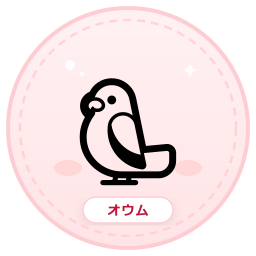
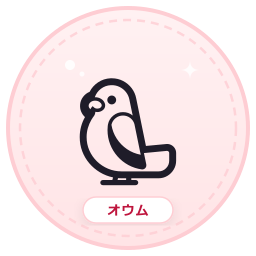
style: 全16タイプを黒シルエット（影絵）スタイルに統一・INTP/ISTPをカラー個別イラストから統一シルエット絵文字に巻き戻し

Changed region(s): [[0.3125, 0.2812, 0.6875, 0.75]]

diff --git a/scripts/generate-animal-icons.js b/scripts/generate-animal-icons.js
@@ -8,139 +8,34 @@ const sharp = require('sharp');
 // - 外交官 (INFP/INFJ/ENFP/ENFJ): ふんわりミントグリーン
 // - 番人 (ISTP/ISTJ/ESTP/ESTJ): やさしいベビーブルー
 // - 探検家 (ISFP/ISFJ/ESFP/ESFJ): あたたかみのあるクリームイエロー/シェルピンク
-
-// フクロウ (INTP): もっちりふっくら丸い体型、不自然な足の線なし、愛嬌満点のサンリオ・ちいかわ風
-function getOwlSvg() {
-  return `
-    <g transform="translate(128, 126)">
-      <!-- 耳の羽角 (丸っこくて愛嬌のある小さなぴょこん耳) -->
-      <path d="M-40 -40 C-50 -60 -25 -65 -18 -45 Z" fill="#6B5B95" />
-      <path d="M40 -40 C50 -60 25 -65 18 -45 Z" fill="#6B5B95" />
-      <path d="M-36 -42 C-43 -56 -26 -58 -22 -44 Z" fill="#C5B4E3" />
-      <path d="M36 -42 C43 -56 26 -58 22 -44 Z" fill="#C5B4E3" />
-
-      <!-- もっちりふっくら丸い体 (ラベンダーに調和する柔らかい紫グレー) -->
-      <ellipse cx="0" cy="5" rx="56" ry="50" fill="#7C6A9C" />
-
-      <!-- ちょこんと畳んだ丸い翼 (両サイド) -->
-      <ellipse cx="-48" cy="8" rx="14" ry="28" fill="#685688" transform="rotate(10 -48 8)" />
-      <ellipse cx="48" cy="8" rx="14" ry="28" fill="#685688" transform="rotate(-10 48 8)" />
-
-      <!-- ふんわりマシュマロお腹 -->
-      <ellipse cx="0" cy="16" rx="36" ry="34" fill="#F4EEFB" />
-
-      <!-- お腹のゆるかわ羽模様 -->
-      <path d="M-12 14 Q-7 19 -2 14" stroke="#B8A5D6" stroke-width="2.5" stroke-linecap="round" fill="none" />
-      <path d="M2 14 Q7 19 12 14" stroke="#B8A5D6" stroke-width="2.5" stroke-linecap="round" fill="none" />
-      <path d="M-5 25 Q0 30 5 25" stroke="#B8A5D6" stroke-width="2.5" stroke-linecap="round" fill="none" />
-
-      <!-- まんまるくりくりの大きな目 (サンリオ・ちいかわ風) -->
-      <ellipse cx="-20" cy="-6" rx="17" ry="17" fill="#FFFFFF" />
-      <ellipse cx="20" cy="-6" rx="17" ry="17" fill="#FFFFFF" />
-
-      <!-- 瞳 (ツヤツヤのうるうるアイ) -->
-      <ellipse cx="-19" cy="-6" rx="12" ry="12" fill="#2E243D" />
-      <ellipse cx="19" cy="-6" rx="12" ry="12" fill="#2E243D" />
-
-      <!-- 大きなうるうるハイライト -->
-      <circle cx="-23" cy="-10" r="4.5" fill="#FFFFFF" />
-      <circle cx="15" cy="-10" r="4.5" fill="#FFFFFF" />
-      <circle cx="-15" cy="-3" r="2.2" fill="#FFFFFF" />
-      <circle cx="23" cy="-3" r="2.2" fill="#FFFFFF" />
-
-      <!-- ぷっくり丸い小さなオレンジくちばし -->
-      <path d="M-5 0 Q0 8 5 0 Q0 -3 -5 0 Z" fill="#FFA94D" />
-
-      <!-- ほんのりピンクのぽわぽわほっぺチーク -->
-      <ellipse cx="-33" cy="8" rx="9" ry="5.5" fill="#FF85A1" opacity="0.45" />
-      <ellipse cx="33" cy="8" rx="9" ry="5.5" fill="#FF85A1" opacity="0.45" />
-
-      <!-- 体にすっぽり収まるちんまりした丸い足先（不自然な足の線は完全に排除） -->
-      <ellipse cx="-14" cy="52" rx="7" ry="4" fill="#FFA94D" />
-      <ellipse cx="14" cy="52" rx="7" ry="4" fill="#FFA94D" />
-    </g>
-  `;
-}
-
-// タカ (ISTP): 足の線を完全排除、シンプル＆クリーンで丸っこくふっくらしたゆるかわタカ
-function getHawkSvg() {
-  return `
-    <g transform="translate(128, 126)">
-      <!-- 頭のぴょこんとした可愛い冠羽 (サンリオ・ちいかわ風) -->
-      <path d="M-8 -46 Q-2 -62 10 -58 Q3 -48 -2 -42 Z" fill="#4B6584" />
-      <path d="M-2 -44 Q8 -54 18 -48 Q10 -40 4 -38 Z" fill="#5E7898" />
-
-      <!-- コロンと丸くふっくらした体 (ベビーブルーに映えるスモーキーブルーグレー) -->
-      <ellipse cx="0" cy="5" rx="54" ry="48" fill="#4B6584" />
-
-      <!-- ふっくらした丸い翼 (両脇) -->
-      <ellipse cx="-46" cy="10" rx="13" ry="26" fill="#3D536E" transform="rotate(12 -46 10)" />
-      <ellipse cx="46" cy="10" rx="13" ry="26" fill="#3D536E" transform="rotate(-12 46 10)" />
-
-      <!-- マシュマロみたいなお腹エプロン (クリームホワイト) -->
-      <ellipse cx="0" cy="15" rx="34" ry="32" fill="#F0F4F8" />
-
-      <!-- 胸のちんまりした羽根マーク -->
-      <path d="M-10 10 L0 18 L10 10" stroke="#8CA0B8" stroke-width="2.5" stroke-linecap="round" stroke-linejoin="round" fill="none" />
-      <path d="M-8 22 L0 28 L8 22" stroke="#8CA0B8" stroke-width="2.5" stroke-linecap="round" stroke-linejoin="round" fill="none" />
-
-      <!-- まんまるくりくりの大きなタカの目 (きりっとしつつも愛嬌たっぷりのちいかわ風) -->
-      <ellipse cx="-18" cy="-6" rx="15" ry="15" fill="#FFFFFF" />
-      <ellipse cx="18" cy="-6" rx="15" ry="15" fill="#FFFFFF" />
-
-      <!-- 瞳 (ゴールドアンバーのキラキラアイ) -->
-      <ellipse cx="-17" cy="-6" rx="10.5" ry="10.5" fill="#D97706" />
-      <ellipse cx="17" cy="-6" rx="10.5" ry="10.5" fill="#D97706" />
-
-      <!-- 瞳孔 (黒目) -->
-      <ellipse cx="-17" cy="-6" rx="7" ry="7" fill="#1E293B" />
-      <ellipse cx="17" cy="-6" rx="7" ry="7" fill="#1E293B" />
-
-      <!-- うるうるハイライト -->
-      <circle cx="-20" cy="-9" r="3.8" fill="#FFFFFF" />
-      <circle cx="14" cy="-9" r="3.8" fill="#FFFFFF" />
-      <circle cx="-14" cy="-4" r="1.8" fill="#FFFFFF" />
-      <circle cx="20" cy="-4" r="1.8" fill="#FFFFFF" />
-
-      <!-- ちょこんと小さくカーブした可愛い黄色いくちばし -->
-      <path d="M-6 -2 Q0 -5 6 -2 Q8 8 0 10 Q-8 8 -6 -2 Z" fill="#F59E0B" />
-      <path d="M-1 3 Q0 10 2 3 Z" fill="#D97706" />
-
-      <!-- ぽわっとした愛されほっぺチーク -->
-      <ellipse cx="-32" cy="7" rx="8" ry="5" fill="#FF85A1" opacity="0.45" />
-      <ellipse cx="32" cy="7" rx="8" ry="5" fill="#FF85A1" opacity="0.45" />
-
-      <!-- 足の細い線は完全に排除！丸っこい体にすっぽり収まる可愛い爪先の丸みのみ -->
-      <ellipse cx="-13" cy="50" rx="6.5" ry="3.5" fill="#F59E0B" />
-      <ellipse cx="13" cy="50" rx="6.5" ry="3.5" fill="#F59E0B" />
-    </g>
-  `;
-}
+//
+// 動物アイコン: 全16タイプを黒シルエット（影絵）スタイルに統一
+// パステル背景 + ステッチ丸枠 + シルエットフィルター適用の絵文字 + 下部ラベルバッジ
 
 const animals = [
   // 分析家 (淡いラベンダーパープル)
-  { type: 'INTP', label: 'フクロウ', customSvg: getOwlSvg(), bg1: '#F5EEFF', bg2: '#E5D4F8', border: '#D3BAF0', badgeBg: '#FFFFFF', badgeText: '#7C5295' },
-  { type: 'INTJ', label: 'ワシ', emoji: '🦅', bg1: '#F3ECFE', bg2: '#E2D0FA', border: '#D0B6F0', badgeBg: '#FFFFFF', badgeText: '#764B93' },
-  { type: 'ENTP', label: 'キツネ', emoji: '🦊', bg1: '#F7EFFE', bg2: '#E8D7FB', border: '#D7BEF4', badgeBg: '#FFFFFF', badgeText: '#7F569B' },
+  { type: 'INTP', label: 'フクロウ', emoji: '🦉', bg1: '#F5EEFF', bg2: '#E5D4F8', border: '#D3BAF0', badgeBg: '#FFFFFF', badgeText: '#7C5295' },
+  { type: 'INTJ', label: 'ワシ',     emoji: '🦅', bg1: '#F3ECFE', bg2: '#E2D0FA', border: '#D0B6F0', badgeBg: '#FFFFFF', badgeText: '#764B93' },
+  { type: 'ENTP', label: 'キツネ',   emoji: '🦊', bg1: '#F7EFFE', bg2: '#E8D7FB', border: '#D7BEF4', badgeBg: '#FFFFFF', badgeText: '#7F569B' },
   { type: 'ENTJ', label: 'ライオン', emoji: '🦁', bg1: '#F1E8FD', bg2: '#DDC9F7', border: '#CDB0ED', badgeBg: '#FFFFFF', badgeText: '#6F438D' },
 
   // 外交官 (ふんわりミントグリーン)
-  { type: 'INFP', label: 'ウサギ', emoji: '🐰', bg1: '#F0FDF4', bg2: '#DCFCE7', border: '#BBF7D0', badgeBg: '#FFFFFF', badgeText: '#15803D' },
-  { type: 'INFJ', label: 'シカ', emoji: '🦌', bg1: '#F2FDF8', bg2: '#D5FBE9', border: '#A7F3D0', badgeBg: '#FFFFFF', badgeText: '#047857' },
-  { type: 'ENFP', label: 'イルカ', emoji: '🐬', bg1: '#F0FDFA', bg2: '#CCFBF1', border: '#99F6E4', badgeBg: '#FFFFFF', badgeText: '#0F766E' },
+  { type: 'INFP', label: 'ウサギ',   emoji: '🐰', bg1: '#F0FDF4', bg2: '#DCFCE7', border: '#BBF7D0', badgeBg: '#FFFFFF', badgeText: '#15803D' },
+  { type: 'INFJ', label: 'シカ',     emoji: '🦌', bg1: '#F2FDF8', bg2: '#D5FBE9', border: '#A7F3D0', badgeBg: '#FFFFFF', badgeText: '#047857' },
+  { type: 'ENFP', label: 'イルカ',   emoji: '🐬', bg1: '#F0FDFA', bg2: '#CCFBF1', border: '#99F6E4', badgeBg: '#FFFFFF', badgeText: '#0F766E' },
   { type: 'ENFJ', label: 'ペンギン', emoji: '🐧', bg1: '#ECFDF5', bg2: '#D1FAE5', border: '#A7F3D0', badgeBg: '#FFFFFF', badgeText: '#065F46' },
 
   // 番人 (やさしいベビーブルー)
-  { type: 'ISTP', label: 'タカ', customSvg: getHawkSvg(), bg1: '#F0F9FF', bg2: '#E0F2FE', border: '#BAE6FD', badgeBg: '#FFFFFF', badgeText: '#0369A1' },
-  { type: 'ISTJ', label: 'カメ', emoji: '🐢', bg1: '#EFF6FF', bg2: '#DBEAFE', border: '#BFDBFE', badgeBg: '#FFFFFF', badgeText: '#1D4ED8' },
-  { type: 'ESTP', label: 'トラ', emoji: '🐯', bg1: '#F0F9FF', bg2: '#E0F2FE', border: '#BAE6FD', badgeBg: '#FFFFFF', badgeText: '#0284C7' },
-  { type: 'ESTJ', label: 'ウシ', emoji: '🐮', bg1: '#F1F5F9', bg2: '#E2E8F0', border: '#CBD5E1', badgeBg: '#FFFFFF', badgeText: '#334155' },
+  { type: 'ISTP', label: 'タカ',     emoji: '🦅', bg1: '#F0F9FF', bg2: '#E0F2FE', border: '#BAE6FD', badgeBg: '#FFFFFF', badgeText: '#0369A1' },
+  { type: 'ISTJ', label: 'カメ',     emoji: '🐢', bg1: '#EFF6FF', bg2: '#DBEAFE', border: '#BFDBFE', badgeBg: '#FFFFFF', badgeText: '#1D4ED8' },
+  { type: 'ESTP', label: 'トラ',     emoji: '🐯', bg1: '#F0F9FF', bg2: '#E0F2FE', border: '#BAE6FD', badgeBg: '#FFFFFF', badgeText: '#0284C7' },
+  { type: 'ESTJ', label: 'ウシ',     emoji: '🐮', bg1: '#F1F5F9', bg2: '#E2E8F0', border: '#CBD5E1', badgeBg: '#FFFFFF', badgeText: '#334155' },
 
   // 探検家 (あたたかみのあるクリームイエロー / シェルピンク)
-  { type: 'ISFP', label: 'ネコ', emoji: '🐱', bg1: '#FFFBEB', bg2: '#FEF3C7', border: '#FDE68A', badgeBg: '#FFFFFF', badgeText: '#B45309' },
-  { type: 'ISFJ', label: 'クマ', emoji: '🐻', bg1: '#FFF7ED', bg2: '#FFEDD5', border: '#FED7AA', badgeBg: '#FFFFFF', badgeText: '#C2410C' },
-  { type: 'ESFP', label: 'オウム', emoji: '🦜', bg1: '#FFF1F2', bg2: '#FFE4E6', border: '#FECDD3', badgeBg: '#FFFFFF', badgeText: '#BE123C' },
-  { type: 'ESFJ', label: 'イヌ', emoji: '🐶', bg1: '#FFF5F5', bg2: '#FED7D7', border: '#FEB2B2', badgeBg: '#FFFFFF', badgeText: '#9B2C2C' }
+  { type: 'ISFP', label: 'ネコ',     emoji: '🐱', bg1: '#FFFBEB', bg2: '#FEF3C7', border: '#FDE68A', badgeBg: '#FFFFFF', badgeText: '#B45309' },
+  { type: 'ISFJ', label: 'クマ',     emoji: '🐻', bg1: '#FFF7ED', bg2: '#FFEDD5', border: '#FED7AA', badgeBg: '#FFFFFF', badgeText: '#C2410C' },
+  { type: 'ESFP', label: 'オウム',   emoji: '🦜', bg1: '#FFF1F2', bg2: '#FFE4E6', border: '#FECDD3', badgeBg: '#FFFFFF', badgeText: '#BE123C' },
+  { type: 'ESFJ', label: 'イヌ',     emoji: '🐶', bg1: '#FFF5F5', bg2: '#FED7D7', border: '#FEB2B2', badgeBg: '#FFFFFF', badgeText: '#9B2C2C' }
 ];
 
 async function generate() {
@@ -148,23 +43,12 @@ async function generate() {
   if (!fs.existsSync(dir)) fs.mkdirSync(dir, { recursive: true });
 
   for (const item of animals) {
-    const centerGraphic = item.customSvg ? item.customSvg : `
-      <!-- ほんのりピンクのほっぺチーク -->
-      <ellipse cx="68" cy="168" rx="14" ry="8" fill="#FFB7B2" opacity="0.35" />
-      <ellipse cx="188" cy="168" rx="14" ry="8" fill="#FFB7B2" opacity="0.35" />
-
-      <!-- 中央の動物絵文字（上下余白が均等になるよう配置） -->
-      <text x="128" y="168" font-size="98" text-anchor="middle" dominant-baseline="central">
-        ${item.emoji}
-      </text>
-    `;
-
     const svg = `
       <svg width="256" height="256" viewBox="0 0 256 256" xmlns="http://www.w3.org/2000/svg">
         <defs>
           <!-- ゆるふわパステルグラデーション -->
           <linearGradient id="grad-${item.type}" x1="0%" y1="0%" x2="0%" y2="100%">
-            <stop offset="0%" stop-color="${item.bg1}" />
+            <stop offset="0%"   stop-color="${item.bg1}" />
             <stop offset="100%" stop-color="${item.bg2}" />
           </linearGradient>
 
@@ -172,25 +56,49 @@ async function generate() {
           <filter id="soft-shadow" x="-10%" y="-10%" width="120%" height="120%">
             <feDropShadow dx="0" dy="4" stdDeviation="6" flood-color="#000000" flood-opacity="0.08" />
           </filter>
+
+          <!-- 黒シルエット（影絵）フィルター: 絵文字を単色の暗いシルエットに変換 -->
+          <filter id="silhouette-${item.type}" color-interpolation-filters="sRGB"
+                  x="-5%" y="-5%" width="110%" height="110%">
+            <!-- 全チャンネルを黒に近い暗色 (R=0.12, G=0.11, B=0.16) に統一、Alpha保持 -->
+            <feColorMatrix type="matrix"
+              values="0 0 0 0 0.12
+                      0 0 0 0 0.11
+                      0 0 0 0 0.16
+                      0 0 0 1 0" />
+          </filter>
         </defs>
-        
+
         <!-- 背景ベース丸 (パステルカラー & 丸み) -->
-        <circle cx="128" cy="128" r="120" fill="url(#grad-${item.type})" stroke="${item.border}" stroke-width="4" />
-        
+        <circle cx="128" cy="128" r="120"
+          fill="url(#grad-${item.type})"
+          stroke="${item.border}" stroke-width="4" />
+
         <!-- かわいいステッチ・点線リング (サンリオ・ちいかわテイスト) -->
-        <circle cx="128" cy="128" r="108" fill="none" stroke="${item.border}" stroke-width="2.5" stroke-dasharray="8 6" opacity="0.8" />
-        
+        <circle cx="128" cy="128" r="108"
+          fill="none"
+          stroke="${item.border}" stroke-width="2.5" stroke-dasharray="8 6" opacity="0.8" />
+
         <!-- かわいいキラキラハイライト (左上・右上) -->
         <circle cx="70" cy="65" r="5" fill="#FFFFFF" opacity="0.9" />
         <circle cx="82" cy="74" r="2.5" fill="#FFFFFF" opacity="0.8" />
         <path d="M190 60 Q190 70 200 70 Q190 70 190 80 Q190 70 180 70 Q190 70 190 60 Z" fill="#FFFFFF" opacity="0.8" />
 
-        ${centerGraphic}
-        
+        <!-- 中央の動物絵文字（黒シルエットフィルター適用・上下余白が均等になるよう配置） -->
+        <text x="128" y="168" font-size="98"
+          text-anchor="middle" dominant-baseline="central"
+          filter="url(#silhouette-${item.type})">
+          ${item.emoji}
+        </text>
+
         <!-- ゆるかわ下部ラベルバッジ（マシュマロ・もっちりピルバッジ） -->
         <g transform="translate(128, 210)" filter="url(#soft-shadow)">
-          <rect x="-45" y="-13" width="90" height="26" rx="13" fill="${item.badgeBg}" stroke="${item.border}" stroke-width="1.5" />
-          <text x="0" y="5" font-family="'Hiragino Maru Gothic ProN', 'Rounded Mplus 1c', 'Meiryo', sans-serif" font-size="13" font-weight="900" fill="${item.badgeText}" text-anchor="middle" letter-spacing="1">
+          <rect x="-45" y="-13" width="90" height="26" rx="13"
+            fill="${item.badgeBg}" stroke="${item.border}" stroke-width="1.5" />
+          <text x="0" y="5"
+            font-family="'Hiragino Maru Gothic ProN', 'Rounded Mplus 1c', 'Meiryo', sans-serif"
+            font-size="13" font-weight="900"
+            fill="${item.badgeText}" text-anchor="middle" letter-spacing="1">
             ${item.label}
           </text>
         </g>
@@ -204,8 +112,8 @@ async function generate() {
 }
 
 generate()
-  .then(() => console.log('Successfully regenerated animal icon images with custom owl & hawk!'))
+  .then(() => console.log('All 16 animal icons regenerated with unified black silhouette style!'))
   .catch((err) => {
-    console.error('Error generating pastel-pop animal icons:', err);
+    console.error('Error generating silhouette animal icons:', err);
     process.exit(1);
   });
